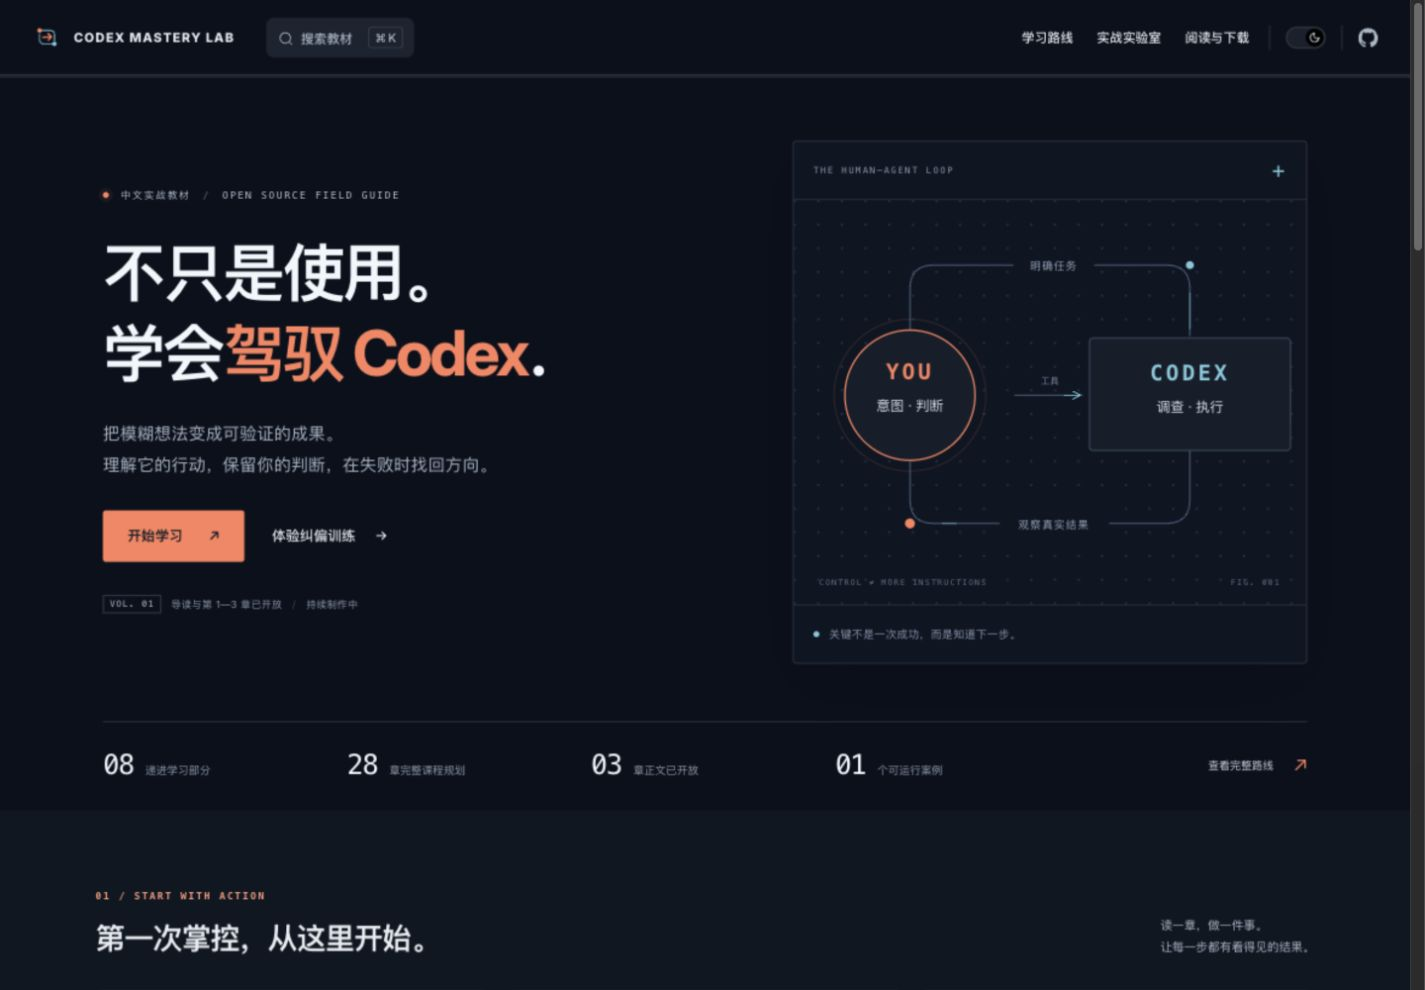
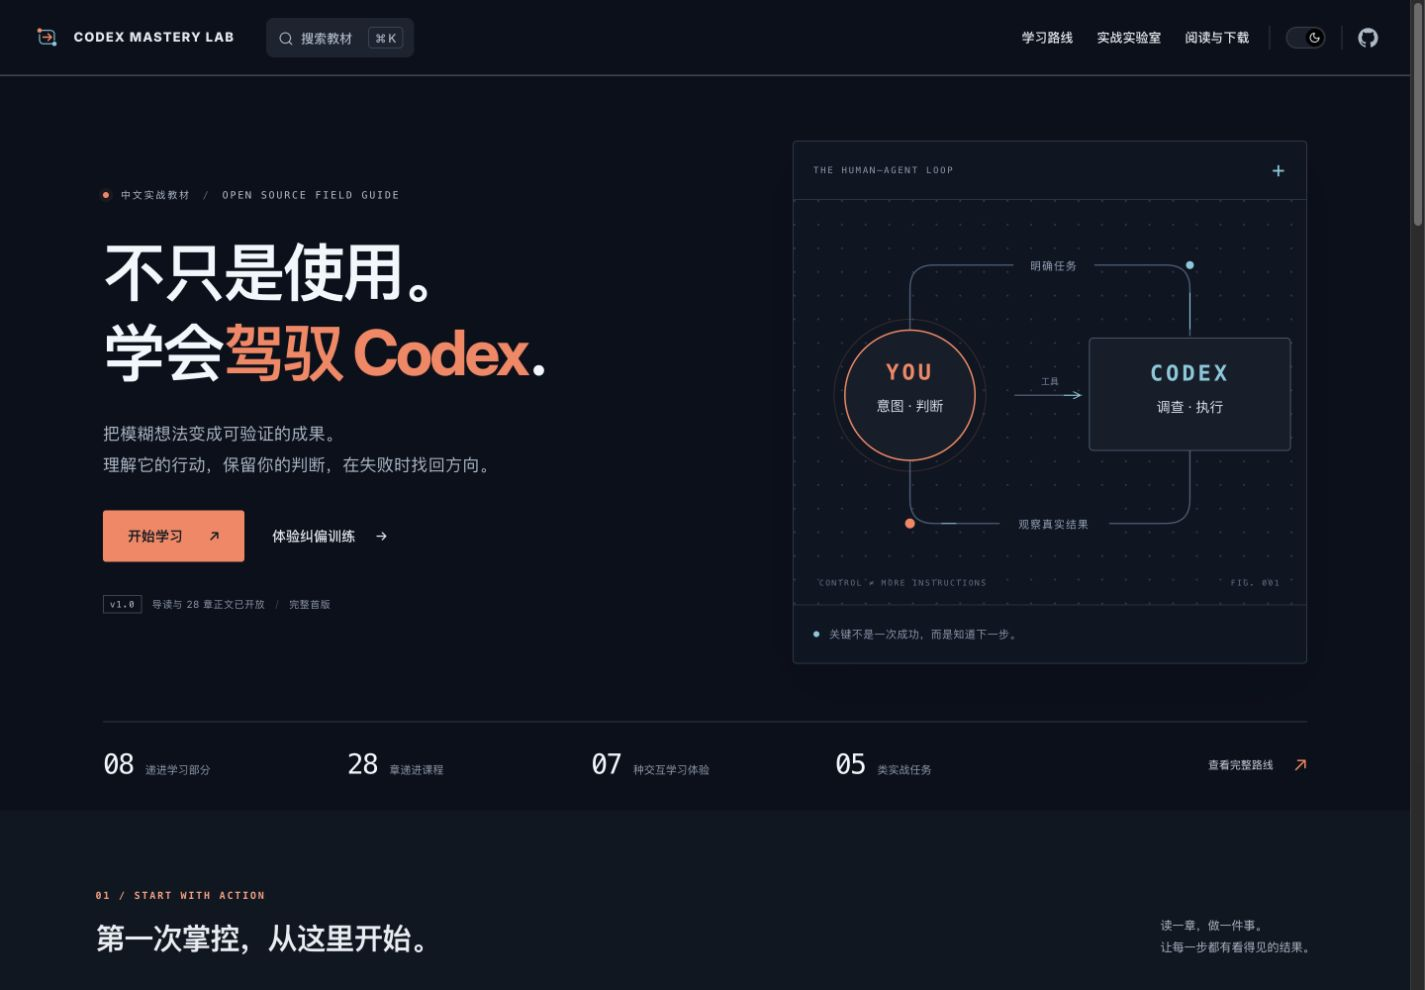
docs: record complete edition deployment and acceptance

diff --git a/book/.vitepress/theme/components/CourseMap.vue b/book/.vitepress/theme/components/CourseMap.vue
@@ -14,7 +14,7 @@ function chapterUrl(id: number) {
     <div class="course-heading">
       <span class="eyebrow">THE CURRICULUM / 8 PARTS · 28 CHAPTERS</span>
       <h1>一条从使用，<br>走向<span>掌控</span>的路线。</h1>
-      <p>从看懂第一次行动，到独立驾驭陌生任务。<br>目前开放导读与 {{ publishedSummary() }}，其余正文持续制作。</p>
+      <p>从看懂第一次行动，到独立驾驭陌生任务。<br>导读与 {{ publishedSummary() }} 已全部开放。<br>从首次成果到独立毕业，在真实任务中形成能力。</p>
       <a class="inline-link" :href="withBase('/00-导读.html')">第一次来？先读导读 ↗</a>
     </div>
     <div class="course-progress">

diff --git a/progress.md b/progress.md
@@ -1,42 +1,40 @@
 # Codex Mastery Lab · 接续状态
 
-更新：2026-10-26，Asia/Shanghai。**完整首版已制作，最终本地验收通过，正在更新公开部署。**
+更新：2026-10-26，Asia/Shanghai。**v1.0 完整首版已制作、提交并公开部署。** 工作目录整体改名为 `codex-tutorial`，文件与Git身份已核对，继续维护现有工程。
 
-## 已完成
+## 已交付
 
-- `book/00-导读.md`、1—28 章、术语来源附录：30 份 Markdown，覆盖 8 部分。完成全书阅读审校，章节、部分、相对链接与实际案例一致；记录在 `artifacts/editorial-review.md`。
-- VitePress + Vue 静态阅读站：首页、完整课程、章节导航/提纲/跳转、中文全文搜索、复制、明暗主题、手机布局、浏览器本地学习进度。课程元数据由正文 frontmatter 生成。
-- 7 类交互：工作循环、证据判断、诊断状态模型、实操清单、目标探索、任务说明工坊、工作路线选择。明确区分教学情境、实际案例与真正 Codex 执行。反馈/重置与草稿保存均有实际浏览器检查。
-- A 基础版与独立增强版；B Python 陌生仓库起点/参考；C CSV 报告和独立校验；D 删除故障/修复；E 两套毕业题。E2 的分段缺陷故意保留，E1 没有提前给完整实现，不能把起点称为已解成果。
-- 封面、7 幅教学 SVG、品牌标记与真实截图。五幅新图有可重建代码，字体 OFL 许可与固定来源入库。
-- PDF/EPUB 导出管线已运行；同一份正文、离线练习替代、字体子集、目录和来源哈希齐备，159 页 PDF 与 EPUB 已完成代表页/图表视觉抽查。下载复制前核对正文/成品 SHA-256。
-- GitHub Pages 免费静态部署工作流已运行成功过；用户已设置 Source=GitHub Actions，后续 main 更新自动发布。
+- 导读、8部分28章、术语来源附录，30份Markdown为唯一正文源；已完整阅读审校，章节、前提、案例与交叉引用见 `artifacts/editorial-review.md`。
+- 完整静态阅读站：品牌首页、完整课程、章节侧栏/位置/提纲/跳转、全文搜索、代码复制、明暗主题、手机布局与本地学习进度。
+- 7种互动：工作循环、证据判断、诊断状态模型、实操清单、目标探索、任务说明工坊、路线选择。演示与真实Codex执行分开，支持反馈/重置；草稿仅保存在浏览器。
+- A基础与标签/JSON备份增强版；B陌生Python仓库起点/参考；C离线报告与独立核对；D确定性故障/修复；E两套毕业题。E1提供输入与要求，E2保留分段缺陷；没有将未解毕业起点当成完成答案。
+- 封面、7幅教学SVG、品牌标记、真实JPEG截图，原件与来源在 `assets/`；五幅新图可由代码重建。
+- PDF **159页**、EPUB，与30份源稿哈希一致；包含目录、中文字体子集、教学图片与离线练习替代。已提取各文档首尾、核对EPUB结构/链接/锚/MIME并实际查看代表页；详见 `exports/verification.md`。
+- 网站源码、案例代码、出版脚本、MIT/OFL许可、开发/部署/出版文档、GitHub Pages自动部署配置均入库。
 
-## 本轮真实验证
+## 已验证
 
-- 全案例 **44 项**：JavaScript 28，Python 16，通过；输出见 `artifacts/case-tests.txt`。C 增加可见渠道表/质量计数篡改检查，E2 增加输入硬链接保护，保留未覆盖的教学缺陷。
-- 最终重新安装锁定依赖并构建：39 HTML、1909 本地目标检查通过，见 `artifacts/build-check.json`。
-- B/C/E 的实际命令、独立 Git 演练、重复脚本结果和只读 GitHub 返回分别记录于各案例及 `extensions/verification.md`。
-- 实际浏览器：D 起点 2/3 层状态分歧、刷新恢复；修复版删除刷新不回、全删保持空、再新增保持、恢复样本。A 增强版标签+搜索、真实文件导入/重复去重/导出读回/删除后备份恢复/坏协议拒绝。仅操作合成样本。
-- 新练习实际分支/反馈/重置，任务草稿保存后刷新恢复并复制读回；第 28 章进度保存刷新仍在，撤销恢复，目录显示 28 章。
-- 390px 与 1440px 布局检查；暂未发现横向溢出或浏览器控制台错误。更新网站构建后重启预览，解决旧脚本缓存，不能把旧静态按钮当作新交互证据。
+- 重新 `npm ci --offline` 安装锁定依赖；44项案例测试通过：JavaScript28、Python16。CI亦实际运行全部通过，输出见 `artifacts/case-tests.txt` / `github-ci.json`。
+- 最终子路径构建：39个HTML、1909个本地目标通过，见 `artifacts/build-check.json`。`.html`深层路径可以在Pages刷新，网站不需要后端或运行时API。
+- C独立核对支持可见渠道表/质量计数篡改回归；E2输入硬链接保护通过，教学分段缺陷仍在。
+- B/C/E实际CLI、独立Git恢复、重复脚本、Skill格式校验与只读GitHub返回分别见各案例及 `extensions/verification.md`。
+- 真实浏览器验证D故障与修复、A标签/组合筛选/文件导入去重/导出读回/删除刷新/备份恢复/坏输入保留数据；教材搜索进入第28章、复制、进度刷新、交互反馈与重置，1440/390布局。
+- 公开网址真实打开，PDF/EPUB实际HTTP下载并匹配成品SHA-256；公开增强版和故障起点实际操作，见 `artifacts/online-verification.json` 与 `browser-verification.md`。
 
-## 发布状态
+## 发布与源码
 
-公开站点：[Codex Mastery Lab](https://liamamilin.github.io/codex-mastery/)。此前纵向切片已部署验收，基线 commit 为 `8a949ab323d6a01123904d2dcc53b8a62c872f20`；本轮完整首版尚在本地整合，不能以该旧网址当前内容证明新首版已发布。
+- [公开站点](https://liamamilin.github.io/codex-mastery/) · [源码](https://github.com/liamamilin/codex-mastery)。
+- 首版主体提交：`799ea01075582144453101096452b729cfc9e9f3`；远端tree `40d258b4c1a43e6c4c1c5620278864a3cde30194` 与本地完全一致。
+- [Actions #4](https://github.com/liamamilin/codex-mastery/actions/runs/40212950521)：build与deploy成功；用户已启用Source=GitHub Actions，无需再次配置。
+- 终端没有GitHub登录，本轮通过已授权GitHub连接创建相同文件树后更新main；fetch核对相同tree再对齐本地，没有强推或丢失文件。后续验收补记提交不改变首版教材成品。
 
-终端无 GitHub 登录，公开 fetch 可用；可使用已授权 GitHub 连接创建与本地相同的文件树，核对 tree SHA 后更新 main，再 fetch 并对齐。本轮推送、Actions 与线上验收完成后更新本节，不要求用户重新配置 Pages。
+## 已知边界
 
-## 明确边界
+- 一次连续线上验收会话出现通用Vue水合警告；新线上会话及详细UTC本地构建重复相同功能路径未再出现。未取得稳定复现，未冒称修复；具体日志与范围已保留。若再次出现，先保留触发页/浏览器版本/动作，再以详细诊断定位，不盲改状态或时区。
+- 未重新安装/登录Codex，未在Windows/WSL/Linux桌面、真实手机硬件、Safari/Firefox和所有账号入口验收；没有虚构模型成本或提速基准。
+- EPUB未在独立阅读器/EPUBCheck验收；结构和内容检查不等于全部阅读器兼容。Skill未冒充所有客户端自动发现通过。旧连接文件不是实时状态。
+- localStorage不是云同步或永久备份；仅操作练习样本。学完打勾是自查，不是自动能力认证。
 
-没有重新安装/登录 Codex，未在 Windows、WSL、Linux 桌面、真实手机硬件、Safari/Firefox 或所有账号入口上实际验收。模型/推理资源选择没有虚构付费基准。Skill 模板已验证格式，但未冒充所有客户端自动发现通过。旧连接返回不是实时状态。
+## 维护入口
 
-EPUB 的 ZIP/XML/文件链接与完整性检查不等于真实电子阅读器兼容性；PDF 必须以最终渲染抽查记录为准。所有具体限制见 `exports/verification.md`。localStorage 不是永久备份或云同步。
-
-## 下一步直接操作
-
-1. 最终本地验收已通过；如果正文或源码再次修改，重新导出并做对应验证。
-2. 检查最终下载、增强版案例、手机目录/阅读导航和新练习，保存最新版截图，补齐 `artifacts/browser-verification.md`。
-3. 提交所有原件、成品和证据到目标 main；观察 build/deploy 成功，真实打开线上新章节与下载，更新本文件发布段。
-
-不要重新写规划或重建正文目录。正文只改 `book/*.md`；`book/public/lab`、`diagrams`、`screenshots`、`downloads` 和生成的 TypeScript 元数据均为可重建副本。手工源与续作说明见 README、`docs/deployment.md`、`docs/ebook.md`。
+直接从现有工程继续，不重写规划：README用于安装运行；`docs/deployment.md`用于Pages；`docs/ebook.md`用于重新出版。修改正文后重跑 `npm run export:book`，再构建，来源哈希不符会报告过期成品。Markdown固定LF以便跨平台校验；不要编辑生成的 `book/public/` 或generated元数据。案例变动运行对应验证；出版版式变动再实际查看代表页。

diff --git a/artifacts/browser-verification.md b/artifacts/browser-verification.md
@@ -68,3 +68,12 @@
 本节不冒充跨浏览器、真实手机硬件、安装登录或所有账户能力验证。最终部署及下载校验另行记录。
 
 最终整合重新安装锁定依赖、44项测试通过，构建39个HTML及1909本地目标通过。真实HTTP获取的PDF/EPUB字节与manifest哈希一致；下载区显示159页PDF及EPUB。全书搜索“未注明”实际返回第28章E1段落，进入后刷新深层地址正常；复制毕业题工作副本命令并读回换行准确。最终预览控制台未见错误。首页首屏截图已更新；下方懒加载案例图另行确认 naturalWidth=1425，避免把尚未加载区域当作最终界面。
+
+
+## 完整首版公开部署验收
+
+发布主体 commit `799ea01075582144453101096452b729cfc9e9f3`，Actions #4 的 build/deploy 两项实际成功。公开首页显示 v1.0、28章、7种交互、5类任务；下载区显示159页PDF和EPUB，公开下载字节与manifest完全一致。完整HTTP记录见 `online-verification.json`，作业状态及日志摘录见 `github-ci.json`。
+
+线上实际检查第10章路线反馈/重置、标记进度刷新仍在后撤销；390px从28条课程目录进入毕业章；增强版带标签新增→刷新→删除本次条目→刷新为空；D起点删除后内存2/存储3，刷新恢复3。没有清除其它版本数据。真实公开首屏 `assets/screenshots/site-live.jpg`。
+
+连续多路由验收会话记录到一次生产版 `Hydration completed but contains mismatches.`。详细本地UTC构建、新线上会话第10章保存/刷新/撤销、下载页、手机目录及第28章重复检查均未再出现，功能检查通过；尚未取得稳定复现，**没有声称修复**。原始消息、时间及复核范围保存在JSON记录中。临时诊断编译开关已移除，不据猜测修改学习状态或日期逻辑。
